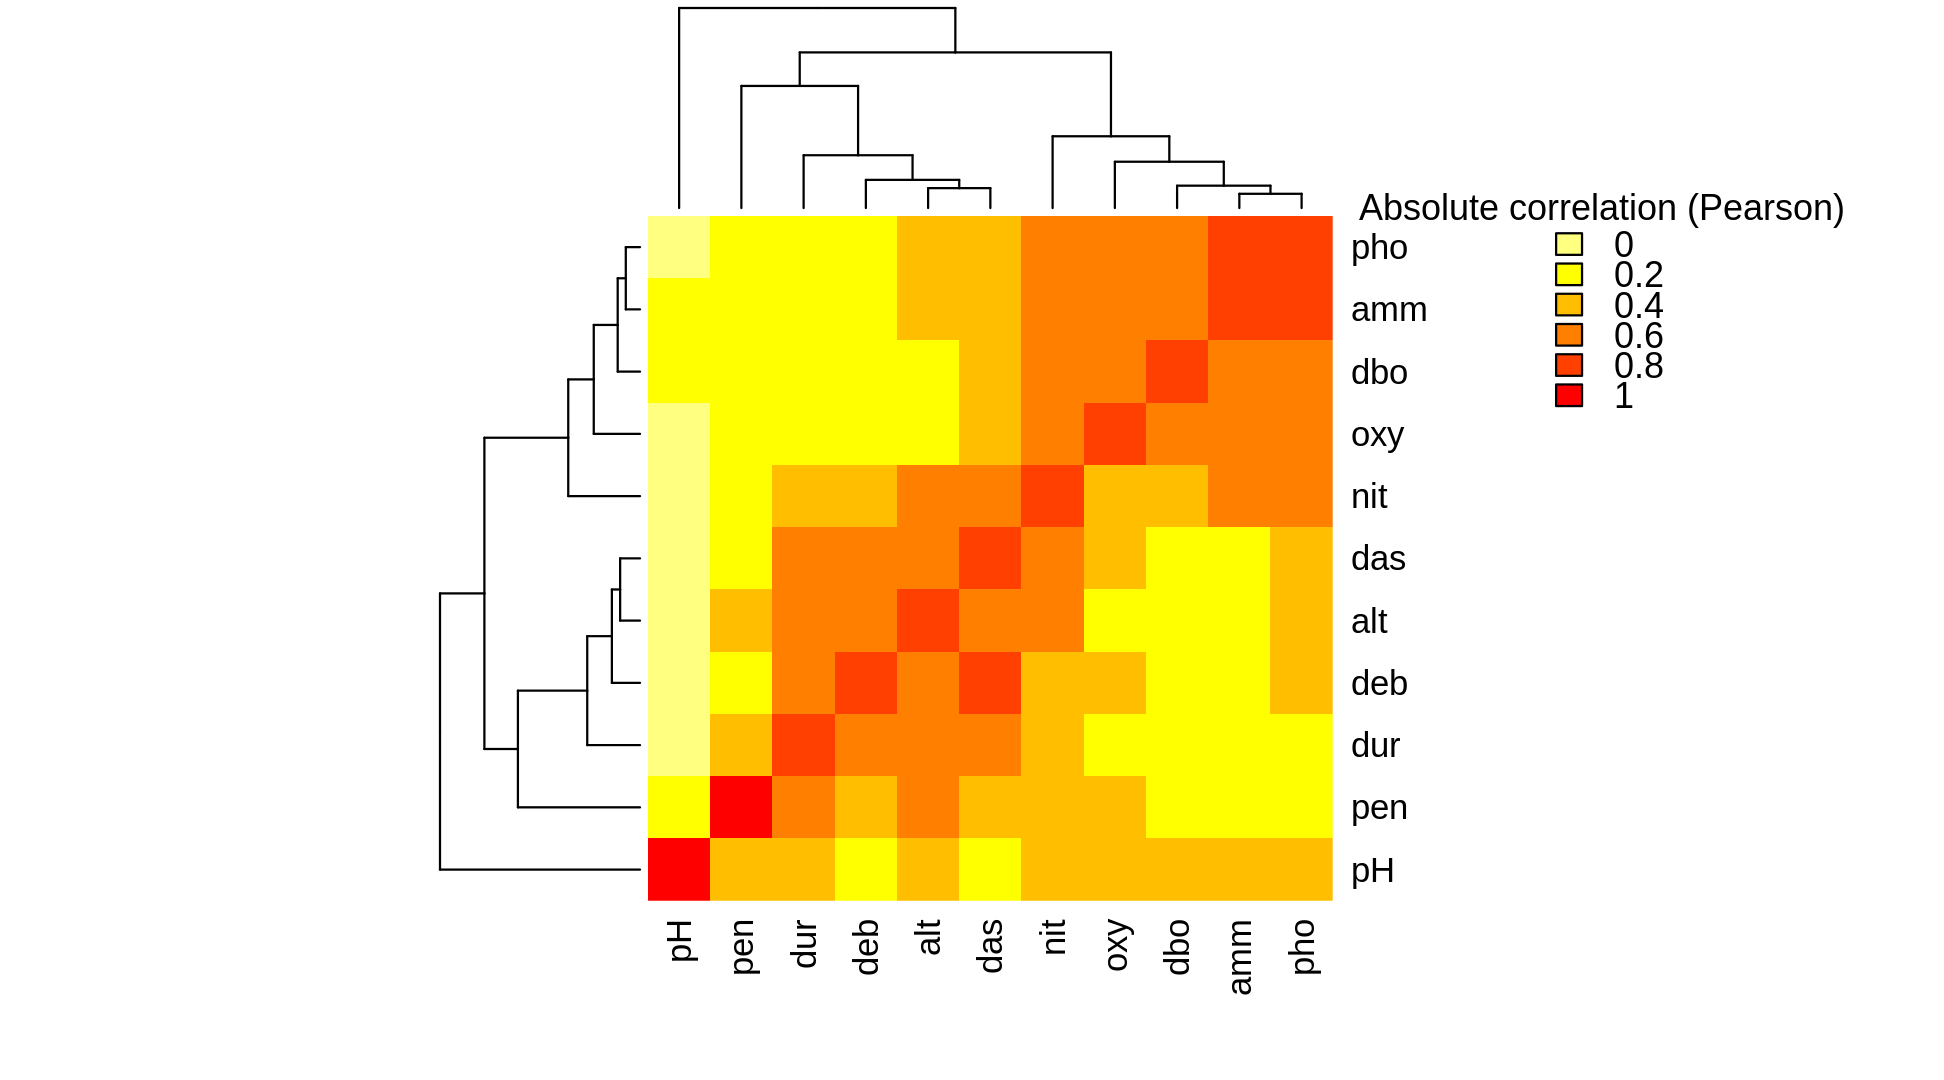
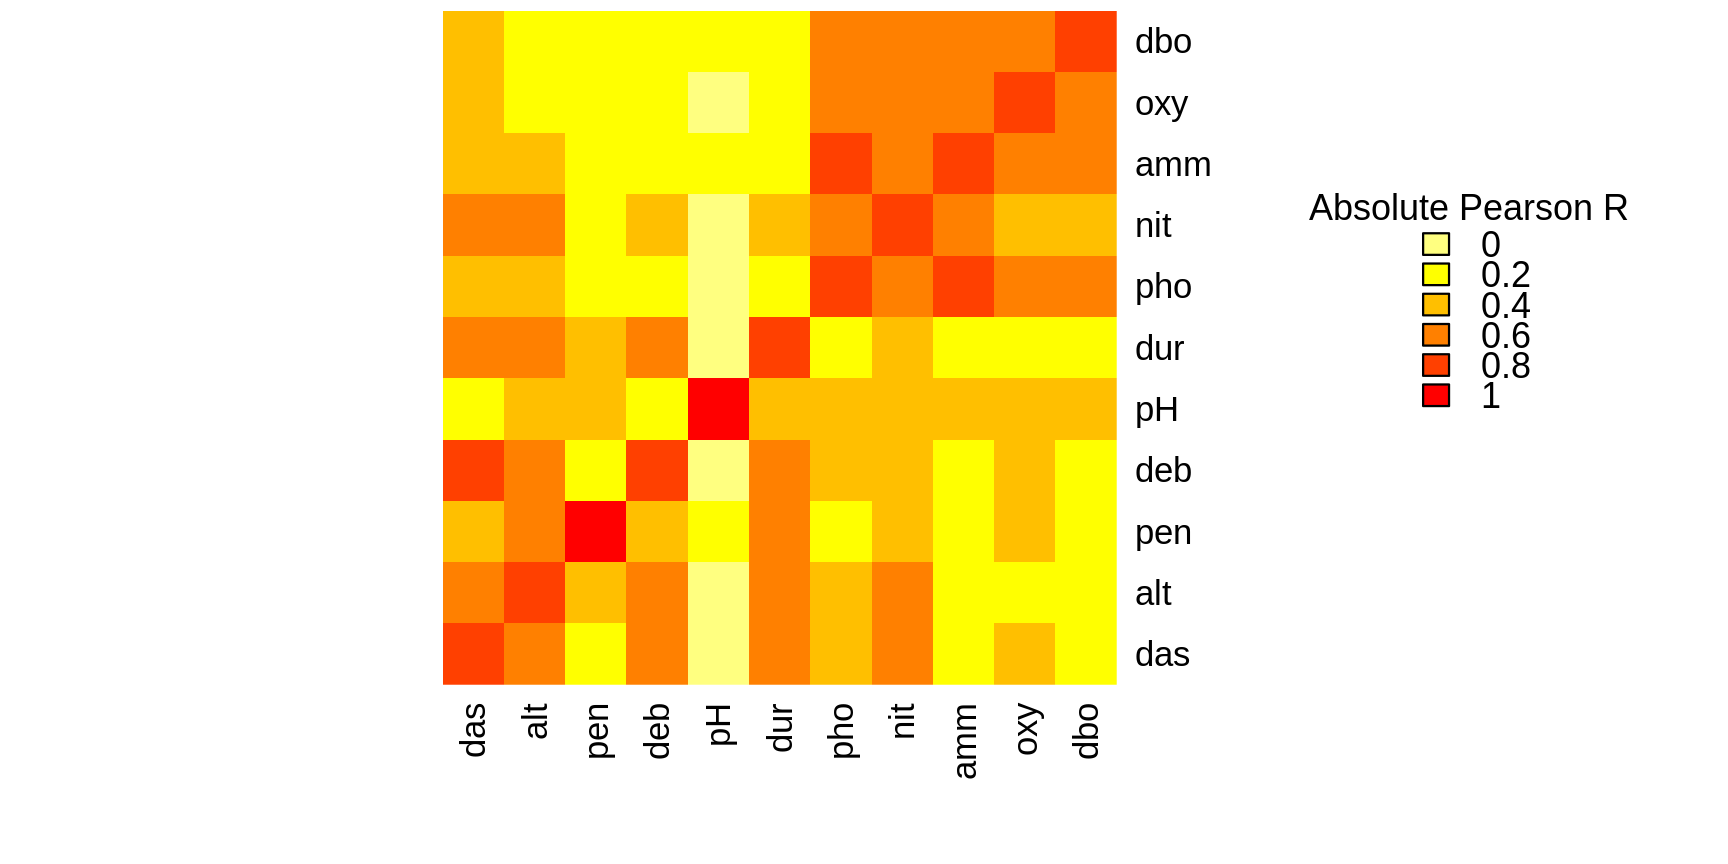
Deploying to gh-pages from  @ 53cd6ff39bcc70c167ced5c5b4d1b15324c19832 🚀

diff --git a/pres-en/workshop10-pres-en.html b/pres-en/workshop10-pres-en.html
@@ -280,24 +280,22 @@ summary(env) # summary statistics for all objects (min, mean, max, etc.)
 ```
 ---
 # Collinearity
-
+.small[
 
 ```r
 # We can visually look for correlations between variables:
-
 heatmap(abs(cor(env)), ## Compute pearson correlation (note they are absolute values)
-        col = rev(heat.colors(6)))
-
-legend("topright",
-       legend =  round(seq(0,1, 
-                     length.out = 6),1),
-       y.intersp = 0.7,
-       title = "Absolute correlation (Pearson)",
-       bty = "n",
+        col = rev(heat.colors(6)), 
+        Colv = NA, Rowv = NA)
+legend("topright", 
+       title = "Absolute Pearson R",
+       legend =  round(seq(0,1, length.out = 6),1),
+       y.intersp = 0.7, bty = "n",
        fill = rev(heat.colors(6)))
 ```
 
-&lt;img src="workshop10-pres-en_files/figure-html/unnamed-chunk-11-1.png" width="648" style="display: block; margin: auto;" /&gt;
+&lt;img src="workshop10-pres-en_files/figure-html/unnamed-chunk-11-1.png" width="576" style="display: block; margin: auto;" /&gt;
+]
 .alert[Note:] Some variables look correlated... .small[(das vs. alt, das vs. deb, das vs. dur, das vs. nit, oxy vs. dbo, etc.)]
 
 ---
@@ -919,8 +917,8 @@ anova.cca(mite.spe.subs, step = 1000, by = "axis")
 # Model: rda(formula = mite.spe.hel ~ Shrub + Topo + Condition(SubsDens + WatrCont + Substrate), data = mite.env)
 #          Df Variance      F Pr(&gt;F)    
 # RDA1      1 0.027236 8.4618  0.001 ***
-# RDA2      1 0.008254 2.5643  0.026 *  
-# RDA3      1 0.003193 0.9919  0.431    
+# RDA2      1 0.008254 2.5643  0.018 *  
+# RDA3      1 0.003193 0.9919  0.437    
 # Residual 58 0.186688                  
 # ---
 # Signif. codes:  0 '***' 0.001 '**' 0.01 '*' 0.05 '.' 0.1 ' ' 1
